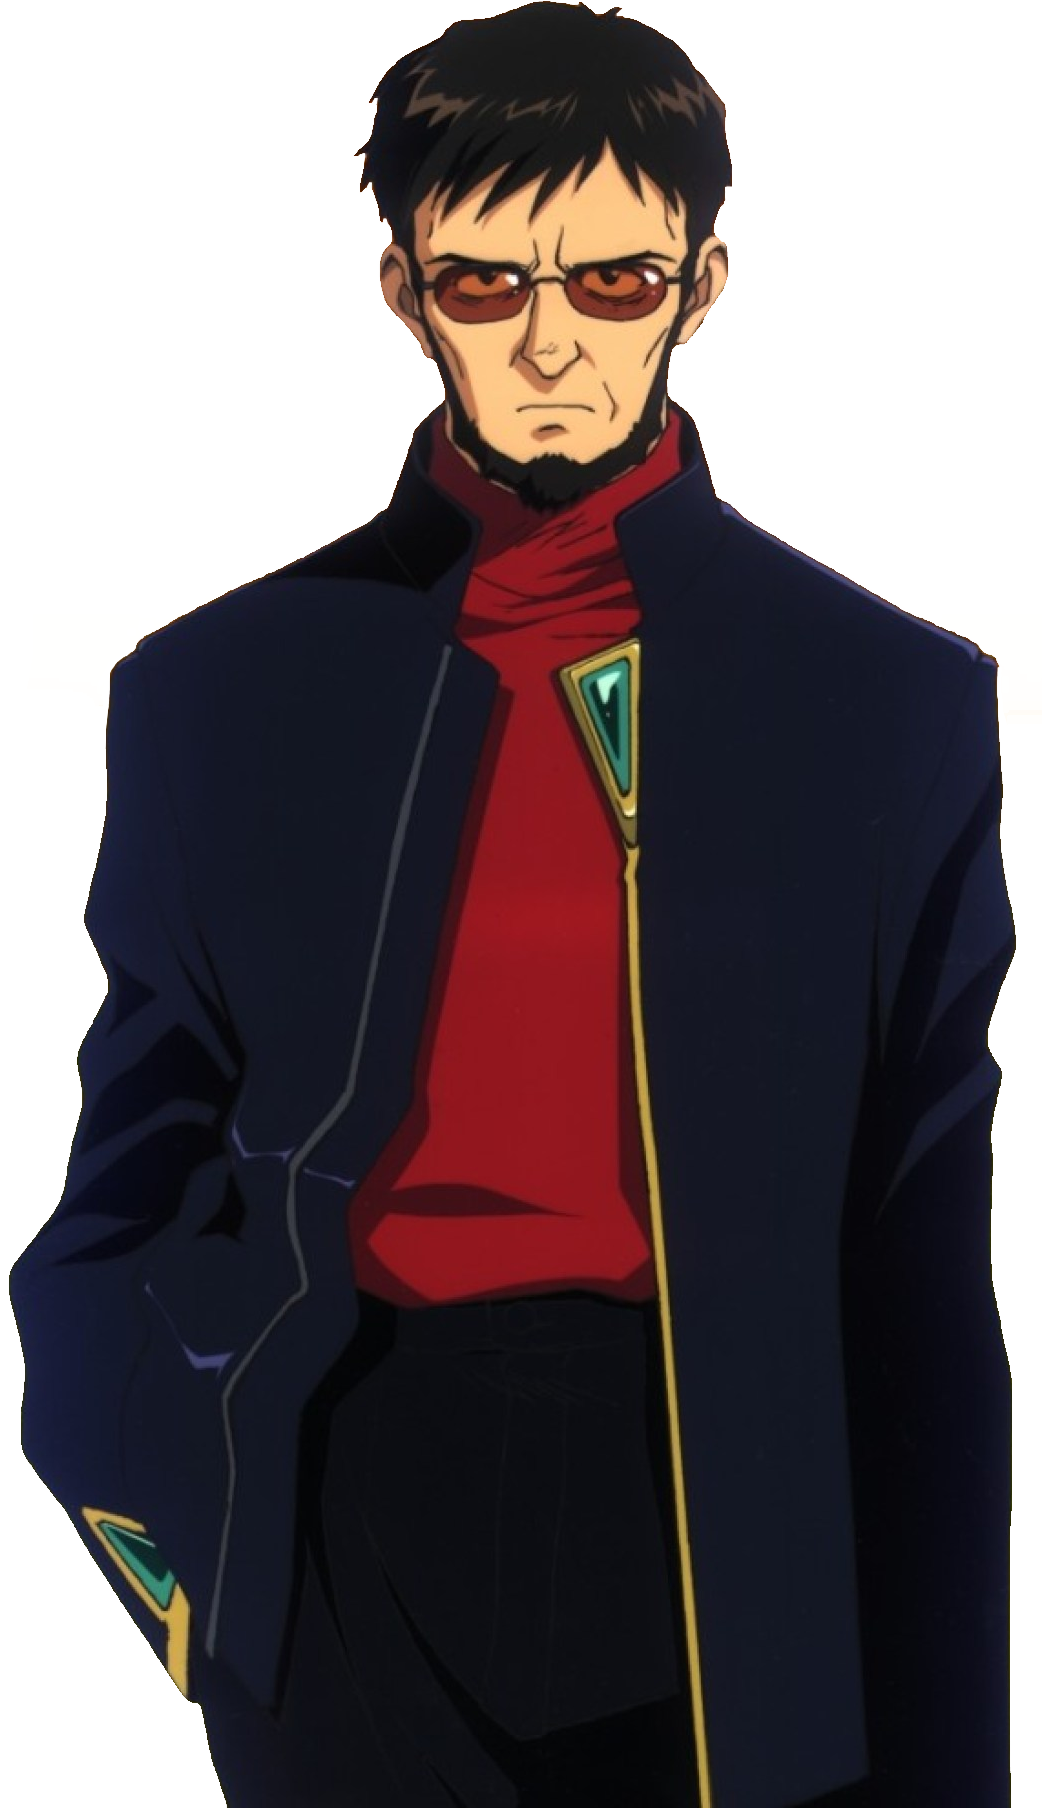
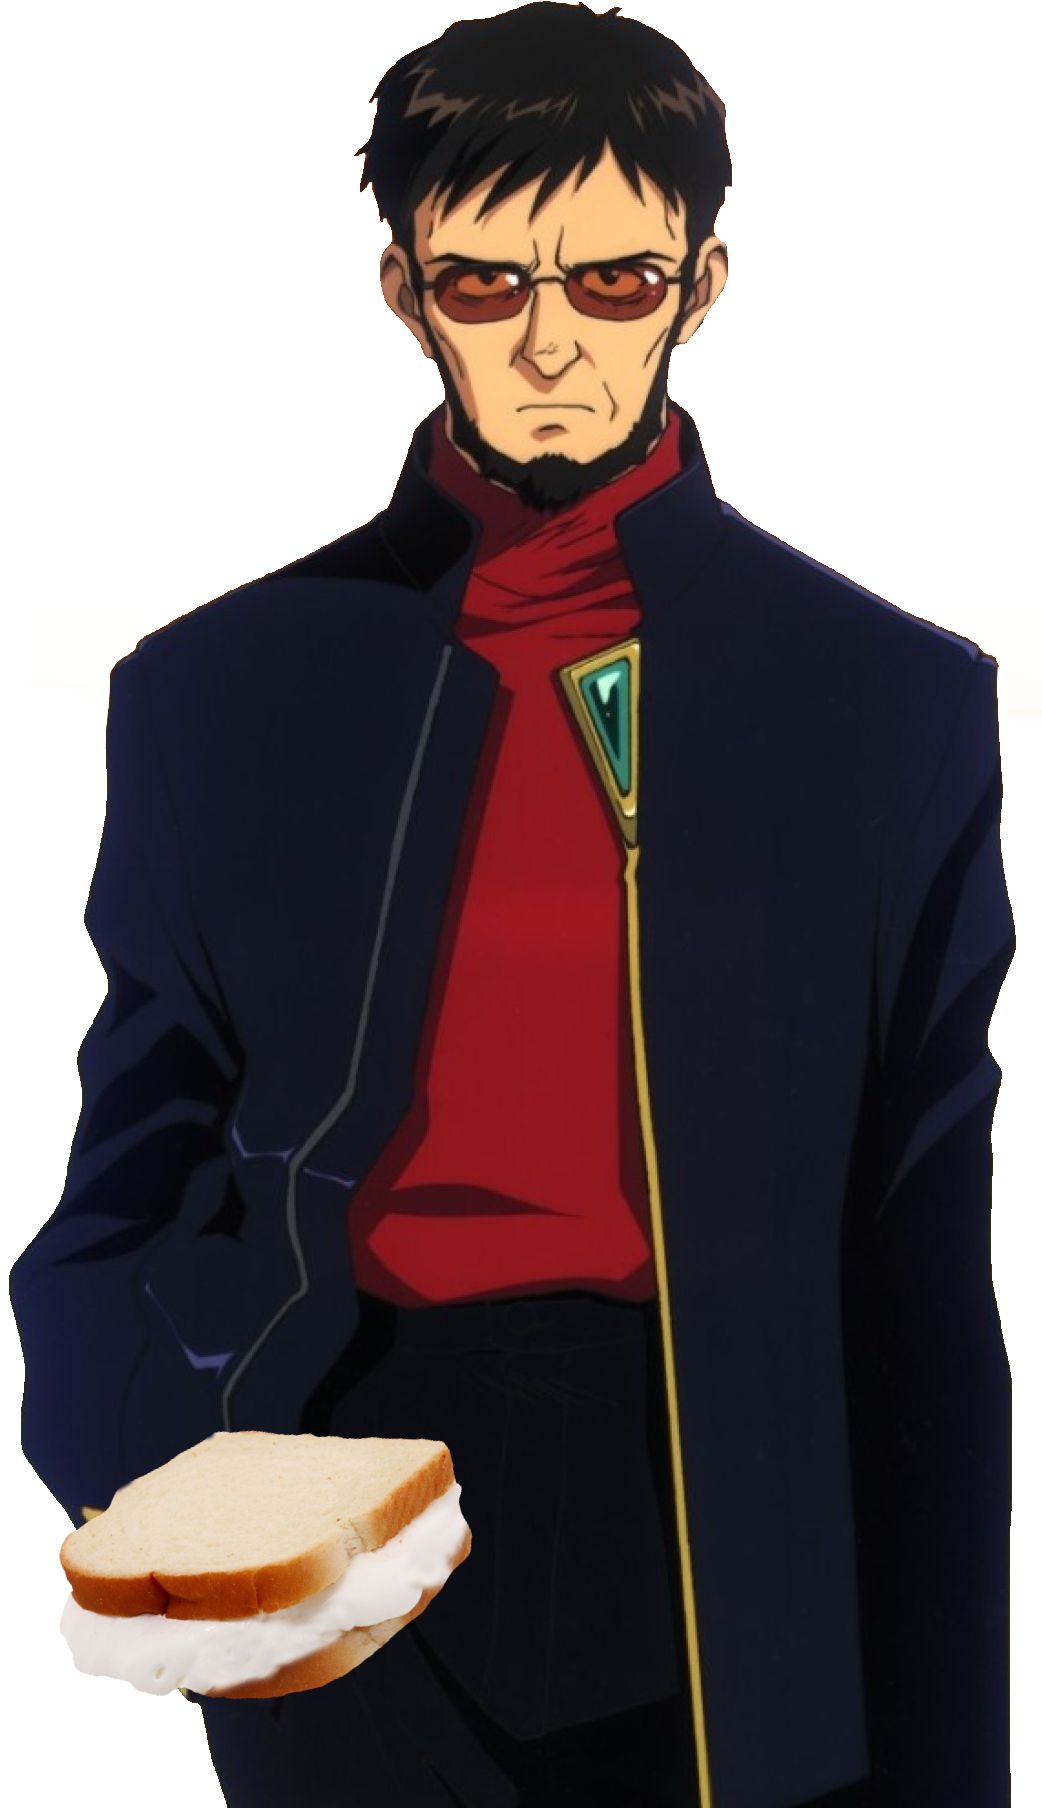
i added pictures tot he buttons and stuff and now they are all added now to find more stuff to do

Changed region(s): [[0.0614, 0.7743, 0.4607, 0.9602]]

diff --git a/clicker.html b/clicker.html
@@ -91,6 +91,21 @@
         #gendoimg{
             display: none;
         }
+        #kajiimg{
+            display: none;
+        }
+        #penimg{
+            display: none;
+        }
+        #misatoimg{
+            display: none;
+        }
+        #ritsukoimg{
+            display: none;
+        }
+        #kaworuimg{
+            display: none;
+        }
         audio::-webkit-media-controls-panel{
             background-color: rgb(5, 238, 5);
         }
@@ -259,11 +274,18 @@
                       </div>
                     
             </div>
-            <p><img id="gendoimg"src="/Shinjiclickimages/Gendoimg.png" width="200px" height="350px"></p>
+            <div>
+            <p><img id="gendoimg"src="/Shinjiclickimages/Gendoimg.png" width="150px" height="280px">
+            <img id="kajiimg" src="/Shinjiclickimages/kajisandwich.png" width="200px" height="280px">
+            <img id="penimg" src="/Shinjiclickimages/Pen_Pen (1).png" width="170px" height="280px">
+            <img id="misatoimg" src="/Shinjiclickimages/Misato (1).png" width="220px" height="280px">
+            <img id="ritsukoimg" src="/Shinjiclickimages/ritsuko (1).png" width="150px" height="280px">
+            <img id="kaworuimg" src="/Shinjiclickimages/kaworu (1).png" width="150px" height="280px"></p>
+            </div>
     </main>
     <script>
         //all variables//
-        var score = 0;
+        var score = 10000000000;
 
         var nervepersonnelcost = 10;
         var nervepersonnel = 0;
@@ -477,6 +499,7 @@
 
                 document.getElementById("score").innerHTML = score;
                 document.getElementById("gendopurchased").innerHTML = gendopurchased;
+                document.getElementById("gendoimg").style.display = "inline-block";
                 updateScorePerSecond();
                 }
             }
@@ -486,6 +509,7 @@
             if (pressedsauna === true){
                 kajipurchased = "Purchased!"
                 document.getElementById("kajipurchased").innerHTML = kajipurchased;
+                document.getElementById("kajiimg").style.display = "inline-block";
                 }
             if (score >= kajicost) {
                 if (pressedsauna === false) {
@@ -497,6 +521,7 @@
 
                 document.getElementById("score").innerHTML = score;
                 document.getElementById("kajipurchased").innerHTML = kajipurchased;
+                document.getElementById("kajiimg").style.display = "inline-block";
                 updateScorePerSecond();
                 }
             }
@@ -506,6 +531,7 @@
             if (pressedbath === true){
                 penpurchased = "Purchased!"
                 document.getElementById("penpurchased").innerHTML = penpurchased;
+                document.getElementById("penimg").style.display = "inline-block";
                 }
             if (score >= pencost) {
                 if (pressedbath === false) {
@@ -517,6 +543,7 @@
 
                 document.getElementById("score").innerHTML = score;
                 document.getElementById("penpurchased").innerHTML = penpurchased;
+                document.getElementById("penimg").style.display = "inline-block";
                 updateScorePerSecond();
                 }
             }
@@ -526,6 +553,7 @@
             if (pressedrei === true){
                 misatopurchased = "Purchased!"
                 document.getElementById("misatopurchased").innerHTML = misatopurchased;
+                document.getElementById("misatoimg").style.display = "inline-block";
                 }
             if (score >= misatocost) {
                 if (pressedrei === false) {
@@ -538,6 +566,7 @@
 
                 document.getElementById("score").innerHTML = score;
                 document.getElementById("misatopurchased").innerHTML = misatopurchased;
+                document.getElementById("misatoimg").style.display = "inline-block";
                 updateScorePerSecond();
                 }
             }
@@ -547,6 +576,7 @@
             if (pressedmusic === true){
                 ritsukopurchased = "Purchased!"
                 document.getElementById("ritsukopurchased").innerHTML = ritsukopurchased;
+                document.getElementById("ritsukoimg").style.display = "inline-block";
                 }
             if (score >= ritsukocost) {
                 if (pressedmusic === false) {
@@ -559,6 +589,7 @@
 
                 document.getElementById("score").innerHTML = score;
                 document.getElementById("ritsukopurchased").innerHTML = ritsukopurchased;
+                document.getElementById("ritsukoimg").style.display = "inline-block";
                 updateScorePerSecond();
                 }
             }
@@ -568,6 +599,7 @@
             if (pressedhospital === true){
                 kaworupurchased = "Purchased!"
                 document.getElementById("kaworupurchased").innerHTML = kaworupurchased;
+                document.getElementById("kaworuimg").style.display = "inline-block";
                 }
             if (score >= kaworucost) {
                 if (pressedhospital === false) {
@@ -581,6 +613,7 @@
                 document.getElementById("score").innerHTML = score;
                 updateScorePerSecond();
                 document.getElementById("kaworupurchased").innerHTML = kaworupurchased;
+                document.getElementById("kaworuimg").style.display = "inline-block";
                 }
             }
         }
